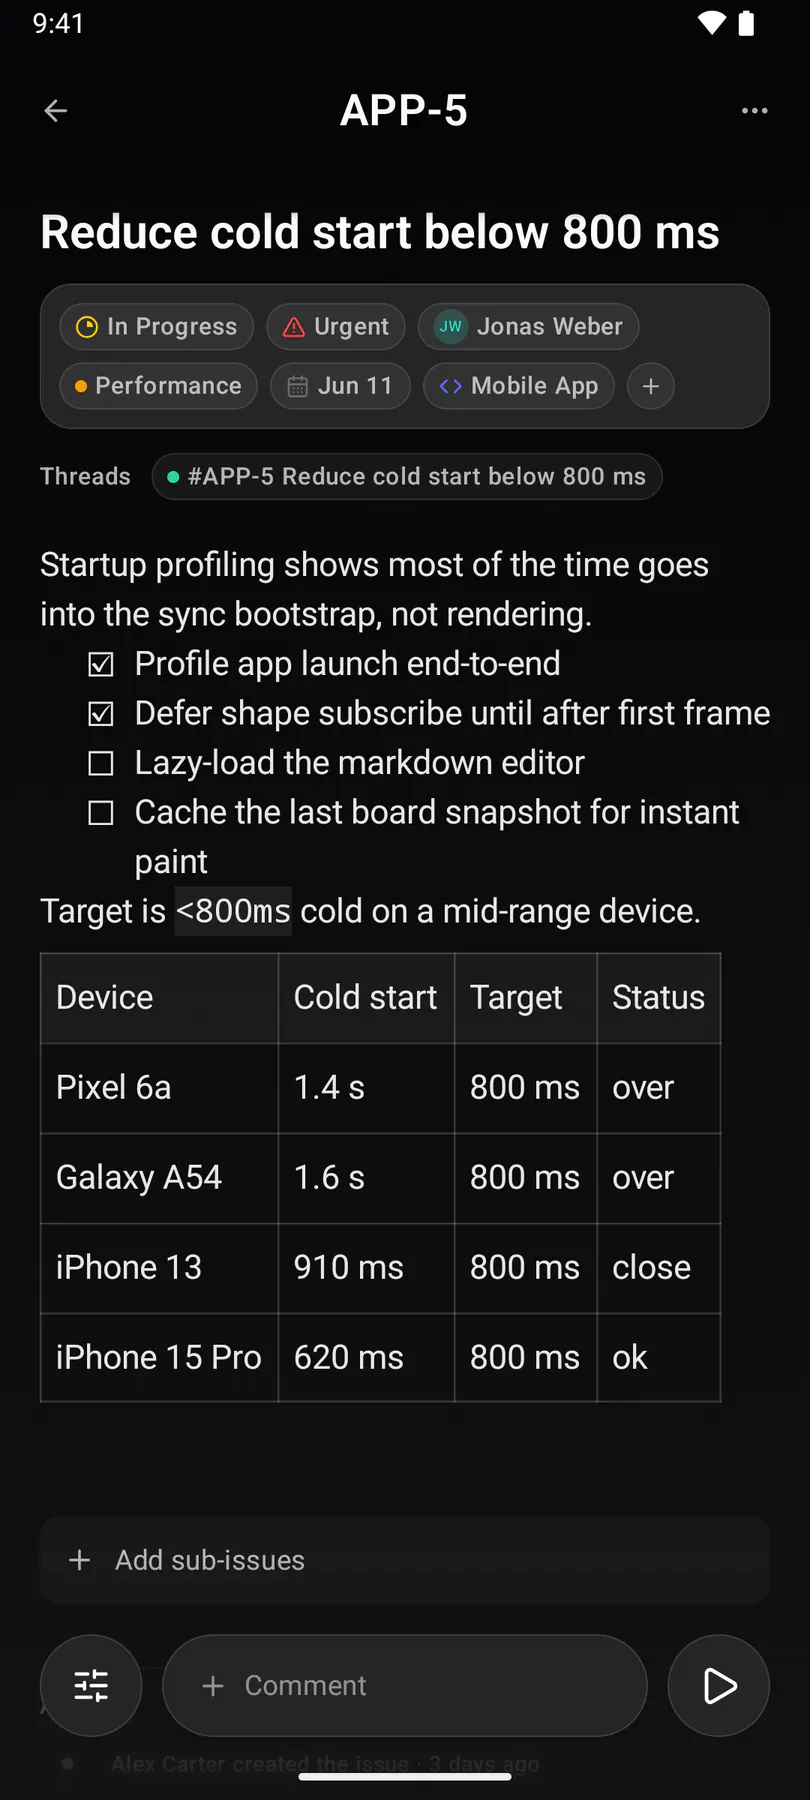
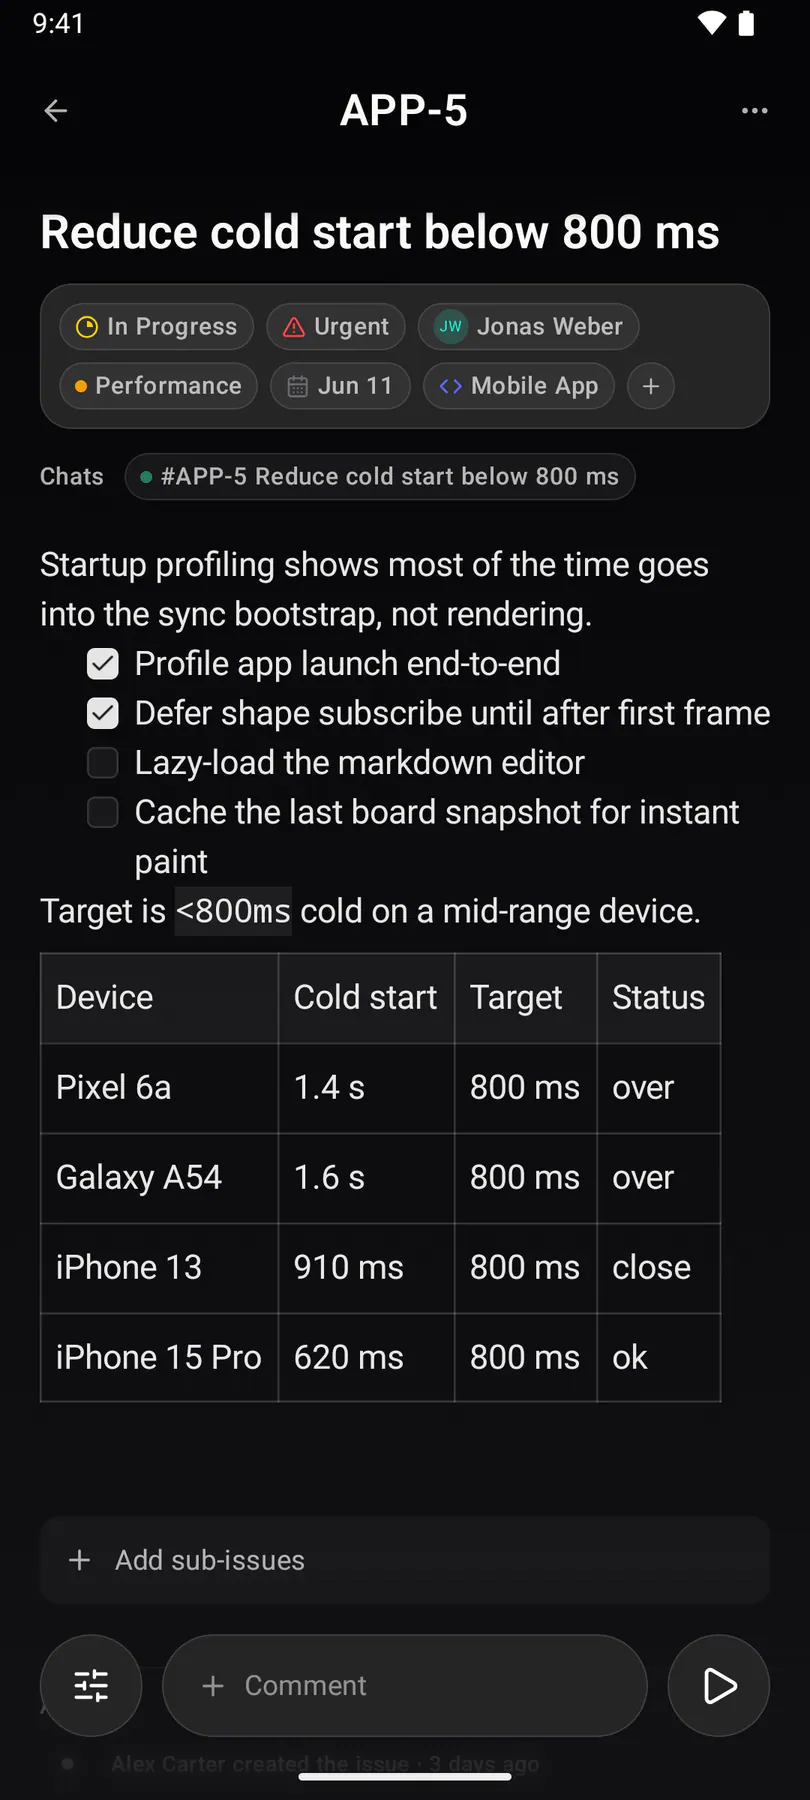
Square checks, Android: ExpCheckbox for bulk select, ask multi, markdown task items, eUI task box; square chat select badge; android shots

Changed region(s): [[0.0617, 0.2489, 0.8025, 0.28], [0.0926, 0.3422, 0.1543, 0.4667]]

diff --git a/apps/android/app/src/main/java/com/exponential/app/ui/components/ChatComponents.kt b/apps/android/app/src/main/java/com/exponential/app/ui/components/ChatComponents.kt
@@ -211,21 +211,24 @@ private val ChatRowEdge: Dp = 20.dp
 private val SelectedRowGround: Color = GlassTokens.RowFillActive.compositeOver(DesignTokens.Palette.Background)
 
 /**
- * #EXP-1388 THE SELECT BADGE (styleguide `chat-selection`): a
- * `shell.selectBadge` filled primary circle holding ui-check
- * (`shell.selectBadgeGlyph`, primary-foreground) inside a
- * `shell.selectBadgeRing` ring in the selected row's ground, so it reads cut
- * out of the disc. Its outer box sits flush with the disc's bottom-right.
+ * #EXP-1388 THE SELECT BADGE (styleguide `chat-selection`): THE checkbox
+ * square (owner 2026-10-27: every check is the square Checkbox) =
+ * `shell.selectBadge` primary fill at `shell.selectBadgeRadius` holding
+ * ui-check (`shell.selectBadgeGlyph`, primary-foreground, its normal stroke)
+ * inside a `shell.selectBadgeRing` ring in the selected row's ground (outer
+ * corner = radius + ring), so it reads cut out of the disc. Its outer box
+ * sits flush with the disc's bottom-right.
  */
 @Composable
 fun ChatSelectBadge(modifier: Modifier = Modifier) {
     val ring = Chats.Shell.SELECT_BADGE_RING.dp
+    val radius = Chats.Shell.SELECT_BADGE_RADIUS.dp
     Box(
         modifier = modifier
             .size(Chats.Shell.SELECT_BADGE.dp + ring * 2)
-            .background(SelectedRowGround, CircleShape)
+            .background(SelectedRowGround, RoundedCornerShape(radius + ring))
             .padding(ring)
-            .background(MaterialTheme.colorScheme.primary, CircleShape),
+            .background(MaterialTheme.colorScheme.primary, RoundedCornerShape(radius)),
         contentAlignment = Alignment.Center,
     ) {
         Icon(

diff --git a/apps/android/app/src/test/java/com/exponential/app/domain/ChatsTest.kt b/apps/android/app/src/test/java/com/exponential/app/domain/ChatsTest.kt
@@ -522,6 +522,7 @@ class ChatsTest {
         assertEquals(shell.getValue("selectBadge").jsonPrimitive.int, Chats.Shell.SELECT_BADGE)
         assertEquals(shell.getValue("selectBadgeRing").jsonPrimitive.int, Chats.Shell.SELECT_BADGE_RING)
         assertEquals(shell.getValue("selectBadgeGlyph").jsonPrimitive.int, Chats.Shell.SELECT_BADGE_GLYPH)
+        assertEquals(shell.getValue("selectBadgeRadius").jsonPrimitive.int, Chats.Shell.SELECT_BADGE_RADIUS)
         assertEquals(shell.getValue("archivedGlyph").jsonPrimitive.int, Chats.Shell.ARCHIVED_GLYPH)
         assertEquals(shell.getValue("bubble").jsonPrimitive.int, Chats.Shell.BUBBLE)
         assertEquals(shell.getValue("bubbleRing").jsonPrimitive.int, Chats.Shell.BUBBLE_RING)

diff --git a/apps/android/app/src/main/java/com/exponential/app/domain/Chats.kt b/apps/android/app/src/main/java/com/exponential/app/domain/Chats.kt
@@ -220,11 +220,13 @@ object Chats {
         const val LEAD_DISC = 52
 
         /** #EXP-1388 the touch SELECT BADGE on a selected row's lead disc:
-         *  the filled primary circle, its ring (the row's ground) and the
+         *  THE checkbox square (primary, [SELECT_BADGE_RADIUS] corner), its
+         *  ring (the row's ground; outer corner = radius + ring) and the
          *  ui-check glyph inside (dp). */
         const val SELECT_BADGE = 18
         const val SELECT_BADGE_RING = 2
-        const val SELECT_BADGE_GLYPH = 12
+        const val SELECT_BADGE_GLYPH = 14
+        const val SELECT_BADGE_RADIUS = 4
 
         /** The Archived entry's plain ui-archive glyph (dp). */
         const val ARCHIVED_GLYPH = 24

diff --git a/apps/android/app/src/main/java/com/exponential/app/ui/components/SelectionBar.kt b/apps/android/app/src/main/java/com/exponential/app/ui/components/SelectionBar.kt
@@ -156,8 +156,8 @@ fun SelectionBarIconButton(
     }
 }
 
-/** THE selection cell a row leads with while selecting (the issue list's and
- *  the Chats rows'): the square [ExpCheckbox] (16dp) centred in the 20dp
+/** THE selection cell an issue row leads with while selecting (touch
+ *  bulk edit): the square [ExpCheckbox] (16dp) centred in the 20dp
  *  cell, 10dp before the row's own lead. */
 @Composable
 fun SelectionGlyph(selected: Boolean, modifier: Modifier = Modifier) {
